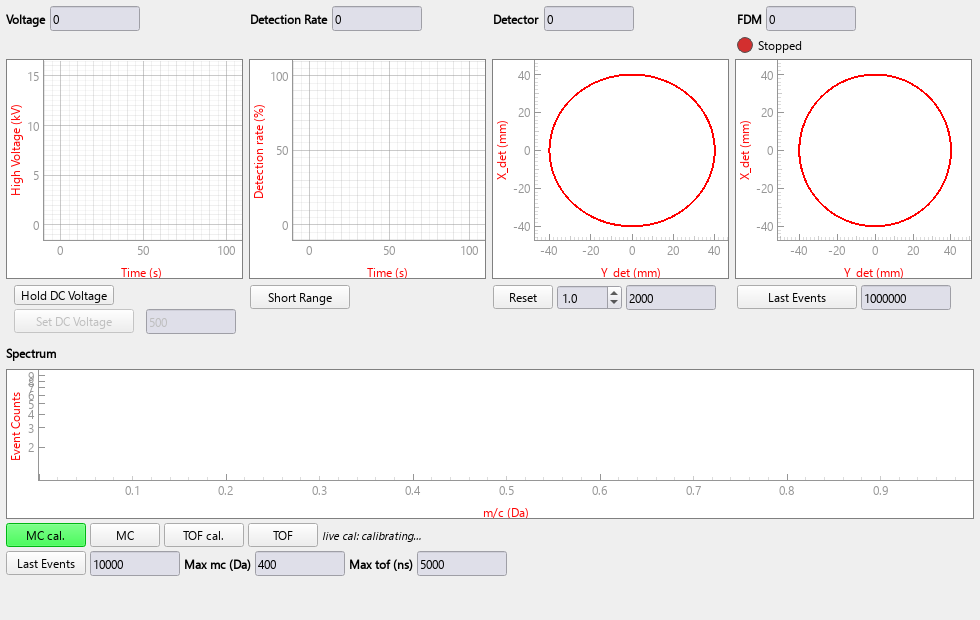
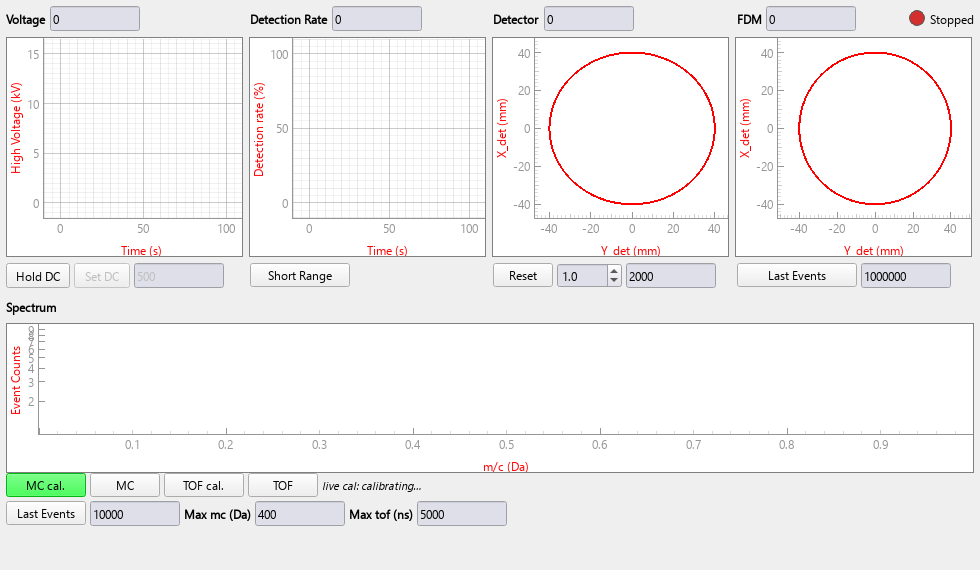
Place visualization DC controls and run status on single rows

diff --git a/pyccapt/control/gui/visualization_layout.py b/pyccapt/control/gui/visualization_layout.py
@@ -45,22 +45,26 @@ class VisualizationLayoutMixin:
             field.setFixedSize(90, 25)
             header.addWidget(field)
             header.addStretch(1)
+            if column == 3:
+                # Keep the experiment indicator in the top-right corner on
+                # the same row as the FDM count, freeing a full header row.
+                self.experiment_status_row.setParent(None)
+                header.addLayout(self.experiment_status_row)
             main.addLayout(header, 0, column)
             main.setColumnStretch(column, 1)
-        # Status gets its own row instead of widening just the FDM panel.
-        self.experiment_status_row.setParent(None)
-        main.addLayout(self.experiment_status_row, 1, 3)
         self.top_plot_row = EqualPlotRow((self.vdc_time, self.detection_rate_viz,
                                          self.detector_heatmap, self.detector_fdm), parent)
-        main.addWidget(self.top_plot_row, 2, 0, 1, 4)
-        voltage = QtWidgets.QGridLayout()
+        main.addWidget(self.top_plot_row, 1, 0, 1, 4)
+        voltage = QtWidgets.QHBoxLayout()
         voltage.setSpacing(4)
-        voltage.addWidget(self.dc_hold, 0, 0, 1, 2)
-        voltage.addWidget(self.set_dc_voltage, 1, 0)
+        for button, width in ((self.dc_hold, 64), (self.set_dc_voltage, 56)):
+            button.setFixedSize(max(width, button.fontMetrics().horizontalAdvance(button.text()) + 18), 25)
+            voltage.addWidget(button)
         self.set_dc_voltage_value.setFixedSize(90, 25)
-        voltage.addWidget(self.set_dc_voltage_value, 1, 1)
-        main.addLayout(voltage, 3, 0)
-        main.addWidget(self.detection_rate_range_switch, 3, 1,
+        voltage.addWidget(self.set_dc_voltage_value)
+        voltage.addStretch(1)
+        main.addLayout(voltage, 2, 0)
+        main.addWidget(self.detection_rate_range_switch, 2, 1,
                        alignment=QtCore.Qt.AlignmentFlag.AlignTop)
         hitmap = QtWidgets.QHBoxLayout()
         hitmap.setSpacing(4)
@@ -69,13 +73,13 @@ class VisualizationLayoutMixin:
         self.hit_displayed.setFixedSize(90, 25)
         hitmap.addWidget(self.hitmap_plot_size)
         hitmap.addWidget(self.hit_displayed)
-        main.addLayout(hitmap, 3, 2, alignment=QtCore.Qt.AlignmentFlag.AlignTop)
+        main.addLayout(hitmap, 2, 2, alignment=QtCore.Qt.AlignmentFlag.AlignTop)
         fdm = QtWidgets.QHBoxLayout()
         fdm.setSpacing(4)
         fdm.addWidget(self.fdm_last_events_switch)
         self.fdm_max_ions.setFixedSize(90, 25)
         fdm.addWidget(self.fdm_max_ions)
-        main.addLayout(fdm, 3, 3, alignment=QtCore.Qt.AlignmentFlag.AlignTop)
+        main.addLayout(fdm, 2, 3, alignment=QtCore.Qt.AlignmentFlag.AlignTop)
         self.gridLayout_2.removeItem(self.horizontalLayout)
         spectrum = QtWidgets.QVBoxLayout()
         spectrum.setSpacing(4)
@@ -100,6 +104,6 @@ class VisualizationLayoutMixin:
         self.gridLayout_2.setSpacing(4)
         self.gridLayout_2.setParent(None)
         self.Error.setMinimumWidth(0)
-        main.addLayout(self.gridLayout_2, 4, 0, 1, 4)
-        main.setRowStretch(2, 2)
-        main.setRowStretch(4, 2)
+        main.addLayout(self.gridLayout_2, 3, 0, 1, 4)
+        main.setRowStretch(1, 2)
+        main.setRowStretch(3, 2)

diff --git a/tests/control/test_responsive_gui.py b/tests/control/test_responsive_gui.py
@@ -499,7 +499,7 @@ def test_visualization_compact_controls_and_equal_plot_dimensions(instrument_win
         app.processEvents()
     print(f'Visualization GUI size: {window.size()}, preview: {tmp_path}')
     assert window.width() <= 1000
-    assert window.height() <= 620
+    assert window.height() <= 570
     viewport = window._responsive_window.scroll.viewport()
     assert window._responsive_window.scroll.horizontalScrollBar().maximum() == 0
     assert window._responsive_window.scroll.verticalScrollBar().maximum() == 0
@@ -513,6 +513,29 @@ def test_visualization_compact_controls_and_equal_plot_dimensions(instrument_win
         assert widget.isVisible()
         assert viewport.rect().contains(QtCore.QRect(widget.mapTo(viewport, QtCore.QPoint()), widget.size()))
     plots = (ui.vdc_time, ui.detection_rate_viz, ui.detector_heatmap, ui.detector_fdm)
+    voltage_controls = (ui.dc_hold, ui.set_dc_voltage, ui.set_dc_voltage_value)
+    assert len({control.mapTo(viewport, QtCore.QPoint()).y() for control in voltage_controls}) == 1
+    for left, right in zip(voltage_controls, voltage_controls[1:]):
+        assert left.mapTo(viewport, left.rect().topRight()).x() < right.mapTo(viewport, QtCore.QPoint()).x()
+    assert ui.experiment_status_text.mapTo(viewport, QtCore.QPoint()).y() < ui.top_plot_row.y()
+    assert ui.experiment_status_text.mapTo(viewport, ui.experiment_status_text.rect().topRight()).x() >= viewport.width()-12
+    assert ui.experiment_status_led.mapTo(viewport, QtCore.QPoint()).y() < ui.top_plot_row.y()
+    assert not ui.set_dc_voltage.isEnabled()
+    ui.variables.start_flag = True
+    ui._update_experiment_status_indicator()
+    assert ui.experiment_status_text.text() == 'Running'
+    assert '#22a447' in ui.experiment_status_led.styleSheet()
+    ui.dc_hold.click()
+    assert ui.variables.vdc_hold and ui.set_dc_voltage.isEnabled()
+    ui.set_dc_voltage_value.setText('2000')
+    ui.set_dc_voltage.click()
+    assert ui.variables.vdc_min == 2000 and ui.variables.flag_new_min_voltage
+    ui.dc_hold.click()
+    assert not ui.variables.vdc_hold and not ui.set_dc_voltage.isEnabled()
+    ui.variables.start_flag = False
+    ui._update_experiment_status_indicator()
+    assert ui.experiment_status_text.text() == 'Stopped'
+    assert '#d32f2f' in ui.experiment_status_led.styleSheet()
     assert ui.data_line_vdc in ui.vdc_time.listDataItems()
     assert ui.data_line_dtec in ui.detection_rate_viz.listDataItems()
     window.grab().save(str(tmp_path/'visualization.png'))

diff --git a/pyccapt/control/gui/gui_visualization.py b/pyccapt/control/gui/gui_visualization.py
@@ -145,7 +145,7 @@ class Ui_Visualization(VisualizationLayoutMixin):
         None
         """
         Visualization.setObjectName("Visualization")
-        Visualization.resize(980, 620)
+        Visualization.resize(980, 570)
         self.gridLayout_6 = QtWidgets.QGridLayout(Visualization)
         self.gridLayout_6.setObjectName("gridLayout_6")
         self.gridLayout_5 = QtWidgets.QGridLayout()
@@ -805,8 +805,8 @@ class Ui_Visualization(VisualizationLayoutMixin):
         ###
         self.label_200.setText(_translate("Visualization", "Voltage"))
         self.voltage.setText(_translate("Visualization", "0"))
-        self.dc_hold.setText(_translate("Visualization", "Hold DC Voltage"))
-        self.set_dc_voltage.setText(_translate("Visualization", "Set DC Voltage"))
+        self.dc_hold.setText(_translate("Visualization", "Hold DC"))
+        self.set_dc_voltage.setText(_translate("Visualization", "Set DC"))
         self.set_dc_voltage_value.setText(_translate("Visualization", str(int(self.conf.get('default_vdc_min', 500)))))
         self.label_201.setText(_translate("Visualization", "Detection Rate"))
         self.detection_rate.setText(_translate("Visualization", "0"))

diff --git a/README.md b/README.md
@@ -210,8 +210,9 @@ laser settings, readouts and alignment controls sit beside the response plot,
 with all stage controls below. Its messages share a two-line area; scroll or
 hover to read longer messages. Alignment fields have space between rows and
 columns, and the window grows to fit readable controls when needed.
-Visualization opens at 980 × 620, with compact
-fields and two rows of spectrum controls. Its four upper rectangular panels
+Visualization opens at 980 × 570, with Hold DC, Set DC and the target voltage
+field on one row, and the running/stopped indicator in the top-right corner.
+It has two rows of spectrum controls. Its four upper rectangular panels
 always have identical widths and heights, including during window resizing.
 These windows scroll on smaller screens so controls remain accessible.
 

diff --git a/docs/CONTROL.md b/docs/CONTROL.md
@@ -224,7 +224,9 @@ between rows and wider column gaps so they cannot overlap. Connection warnings
 and temporary errors share a two-line message area; scroll or hover to read
 longer messages. The window grows to fit the controls when fonts require it.
 
-Visualization opens at 980 × 620. The four upper rectangular panels have
+Visualization opens at 980 × 570. Hold DC, Set DC and the target voltage field
+share one row, and the LED with Running/Stopped text sits in the top-right
+corner alongside the FDM count. The four upper rectangular panels have
 identical pixel dimensions at every window size. Compact voltage controls and
 two rows of spectrum controls reduce the width needed without removing any
 plot, calibration view, status indicator or input. Smaller screens use scrolling.

diff --git a/pyccapt/control/CONTROL.md b/pyccapt/control/CONTROL.md
@@ -221,7 +221,9 @@ between rows and wider column gaps so they cannot overlap. Connection warnings
 and temporary errors share a two-line message area; scroll or hover to read
 longer messages. The window grows to fit the controls when fonts require it.
 
-Visualization opens at 980 × 620. The four upper rectangular panels have
+Visualization opens at 980 × 570. Hold DC, Set DC and the target voltage field
+share one row, and the LED with Running/Stopped text sits in the top-right
+corner alongside the FDM count. The four upper rectangular panels have
 identical pixel dimensions at every window size. Compact voltage controls and
 two rows of spectrum controls reduce the width needed without removing any
 plot, calibration view, status indicator or input. Smaller screens use scrolling.
